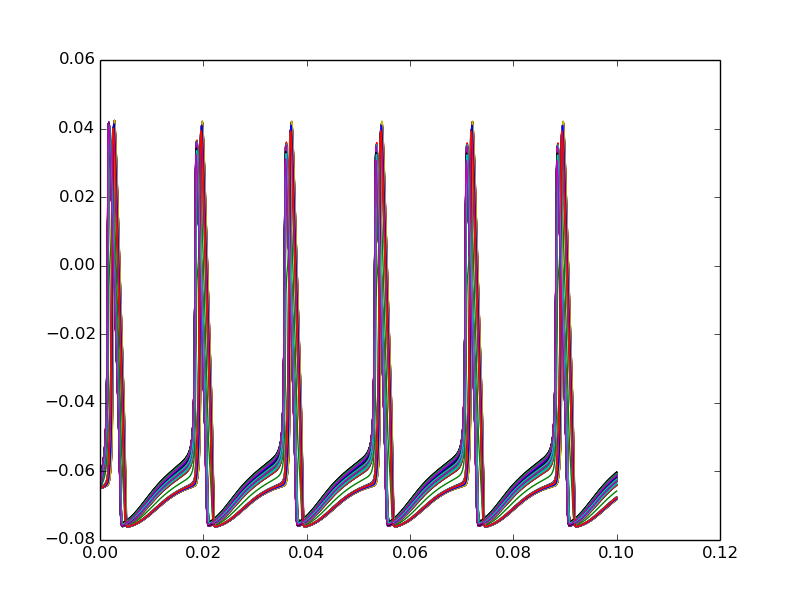
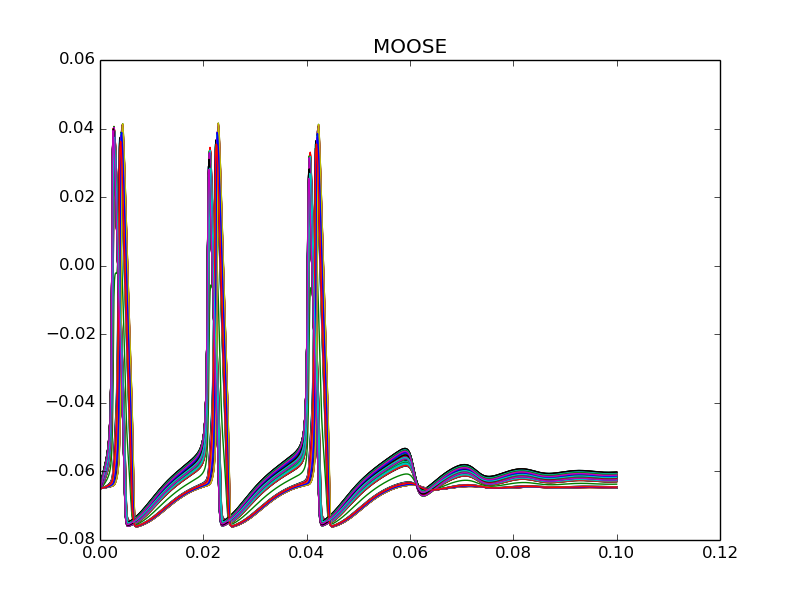
Added notes.

Changed region(s): [[0.125, 0.21, 0.7812, 0.9], [0.4688, 0.06, 0.5625, 0.09]]

diff --git a/moose_nrn_equivalence_testing/comparision_with_simple_HH_model/moose_to_neuron.py b/moose_nrn_equivalence_testing/comparision_with_simple_HH_model/moose_to_neuron.py
@@ -21,7 +21,7 @@ import re
 compts_ = set()
 nrn_txt_ = {}
 # This is output sampling time.
-dt_ = 1e3*5e-5
+dt_ = 1e3*50e-5
 plot_dt_ = 1e3*1e-4
 
 def nrn_name(compt):
@@ -53,11 +53,14 @@ def write_mechanism_line(chan, props):
     gbar = gbar / props['sarea'] 
     nrn_gbar = gbar * 1e-4
     param['gbar_%s' % mech] = nrn_gbar
+    param['gmax_%s' % mech] = nrn_gbar
     param['e_%s' % mech] = 1e3*float(ek)
-    if "na" in mech.lower():
-        param['e_na'] = 1e3*float(ek)
-    elif "k" in mech.lower():
-        param['e_k'] = 1e3*float(ek)
+    if "na" == mech[0:1].lower():
+        param['ena'] = 1e3*float(ek)
+    elif "k" == mech[0].lower():
+        param['ek'] = 1e3*float(ek)
+    else:
+        param['e_%s' % mech] = 1e3*float(ek)
     line += ["%s=%s" % (k, param[k]) for k in param]
     line.append("}")
     return " ".join(line)
@@ -77,6 +80,7 @@ def create_section_in_neuron(mooseCompt):
     # In this particular script, we just add the hh mechanism and nothing else.
     # Make sure that MOOSE only has HH-Mehcanism loaded. Passive properties must
     # be same as HH mehcanism.
+    #params.append('insert hh')
     for chanVec in channels:
         for chan in chanVec:
             mech = chan.name
@@ -127,7 +131,7 @@ def stimulus_text():
     mu.info(" Default sim time is 0.1 second. Change it in script.")
     stimtext.append('dt=%s' % plot_dt_)
     stimtext.append('tstop=%s' % 100)
-    #stimtext.append('cvode.active(0)')
+    #stimtext.append('cvode.active(1)')
     stimtext.append('finitialize()')
     stimtext.append('run()')
     stimtext.append("\n")

diff --git a/moose_nrn_equivalence_testing/comparision_with_simple_HH_model/check_equivalence.py b/moose_nrn_equivalence_testing/comparision_with_simple_HH_model/check_equivalence.py
@@ -24,7 +24,7 @@ chanProto_ = [
 passiveDistrib_ = [ 
         [ ".", "#", "RM", "2.8", "CM", "0.01", "RA", "1.5",  
             "Em", "-58e-3", "initVm", "-65e-3" ]
-        , [ ".", "#axon#", "RA", "0.5" ] 
+        , [ ".", "#axon#", "RA", "1.5" ] 
         ]
 
 chanDistrib_ = [
@@ -42,8 +42,8 @@ def buildMOOSE(swcfile):
     print("Total moose compartment: %s" % len(compts))
 
 def runMOOSE():
-    for i in range(10):
-        moose.setClock(i, 25e-6)
+    #for i in range(10):
+    #    moose.setClock(i, 25e-6)
     moose.reinit()
     moose.start(0.1)
     records = {}
